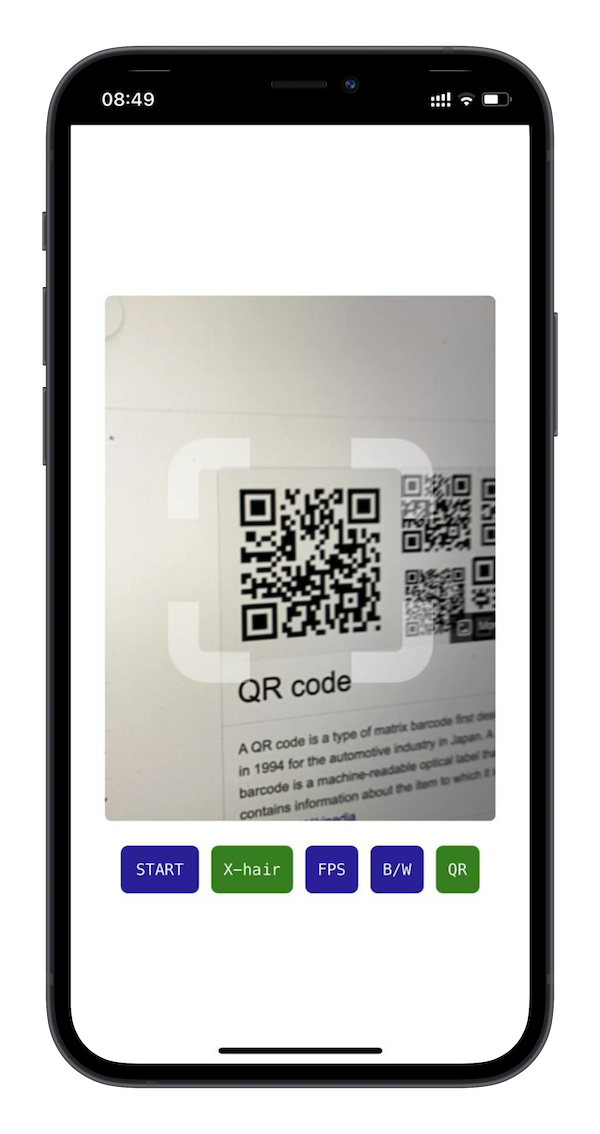
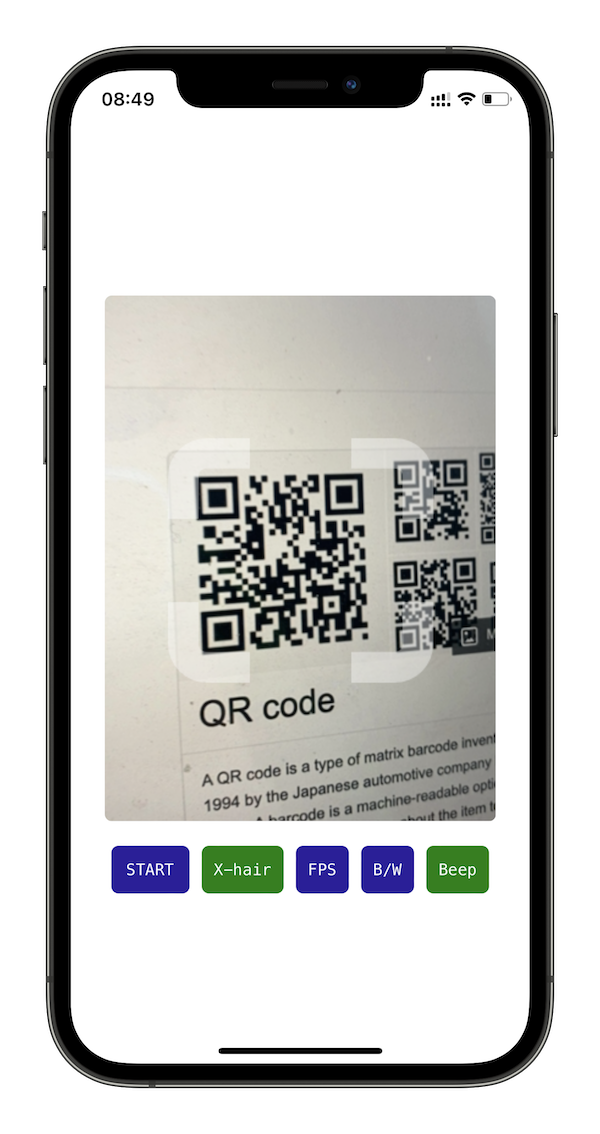
updated readme, new screenshots

diff --git a/README.md b/README.md
@@ -14,12 +14,13 @@ QR/bar code scanner for the Browser
 * Packaged as PWA (caching files with Service Worker, Add to Home Screen)
 * Mobile first (can be used on a Laptop as well)
 * Multiplatform (iOS, Android, Desktop)
-* QR recognition logic is performed off the browser's Main thread (i.e. Web Worker)
-* *koder* React component supports a [jsqr](https://www.npmjs.com/package/jsqr) based Web Worker (see [jsQrWorker.js](./public/jsQrWorker.js))  
+* QR/bar code recognition logic is performed off the browser's Main thread (i.e. Web Worker)
+* *koder* React component supports a [jsqr](https://www.npmjs.com/package/jsqr) based Web Worker (see [jsQrWorker.js](./public/jsQrWorker.js))
 * Barcode support (UPC-A, UPC-E, EAN-8, EAN-13, I25, CODE-128)
-* Support for UPN QR (Slovenia only)
+* :new: Turn on/off the beep sound
+* :new: Support for UPN QR (Slovenia only)
 * :new: EU Digital Covid Certificate validator (vaccination, test), works in ``offline`` mode!
-* :new: uses Emscripten v3.1.1
+* :new: Emscripten v3.1.1
 * Emscripten-zbar-sdk [Docker image](https://hub.docker.com/r/maslick/emscripten-zbar-sdk) based on `emscripten/emsdk`, [Dockerfile](./docker/Dockerfile)
 * ReactJS [component](./src/components/scan.js)
 * Vanilla JS [example](./docs)
@@ -29,64 +30,70 @@ QR/bar code scanner for the Browser
   <img src="./screenshots/app_2.png" width="400px" />
 </p>
 
-## ⚡ Installation
+## ⚡ Usage
 
-### 1. Builder image
+### 1. Install dependencies
 ```shell
-docker build -t maslick/emscripten-zbar-sdk -f docker/Dockerfile docker
+npm install --global yarn
+yarn install --frozen-lockfile
 ```
 
-### 2. Build WASM artifacts:
+### 2. Run React app (dev mode):
 ```shell
+npm run start
+open https://locahost:8080
+```
+
+### 3. Run React app (production):
+```shell
+npm run build                # -> builds React app into ./public
+npm run prod                 # -> serve static web app on port 8082
+open http://localhost:8082
+```
+
+## :spades: Development
+
+### Fetch or build the Builder image
+```shell
+docker pull maslick/emscripten-zbar-sdk
+docker build -t maslick/emscripten-zbar-sdk -f docker/Dockerfile docker
+
+```
+
+### Build WASM artifacts
+```shell
+# React app
 docker run \
   -e INPUT_FILE=zbar/qr.cpp \
   -e OUTPUT_FILE=zbar \
   -e OUTPUT_DIR=public/wasm \
   -v $(pwd):/app \
   maslick/emscripten-zbar-sdk make -B
-```
-
-Clean the build artifacts (if necessary):
-```shell
-OUTPUT_DIR=public/wasm OUTPUT_FILE=zbar make clean
-```
-
-### 3. Use the resulting WASM artifacts
-
-```shell
-# Fetch dependencies
-yarn install --frozen-lockfile
-
-# Development mode
-npm run start
-open https://locahost:8080
-
-# Production mode
-npm run build
-npm run build-and-serve
-open http://localhost:8082
-```
-
-
-## :gem: BONUS: vanilla js example
-```shell
-# Build WASM artifacts
+  
+# Vanilla JS
 docker run \
   -e INPUT_FILE=zbar/qr.cpp \
   -e OUTPUT_FILE=zbar \
   -e OUTPUT_DIR=docs/wasm \
   -v $(pwd):/app \
   maslick/emscripten-zbar-sdk make -B
-
-# Serve static HTML app
-yarn run vanilla-js-live
-open http://localhost:8081
 ```
 
-Clean the build artifacts (if necessary):
+### Clean the build artifacts (if necessary):
 ```shell
+# React app
+OUTPUT_DIR=public/wasm OUTPUT_FILE=zbar make clean
+
+# Vanilla JS
 OUTPUT_DIR=docs/wasm OUTPUT_FILE=zbar make clean
 ```
+
+## :gem: BONUS: vanilla js example
+```shell
+npm run vanilla-js
+open https://locahost:8081
+```
+
 
 ## 🔭 References
 * [WebAssembly at Ebay](https://tech.ebayinc.com/engineering/webassembly-at-ebay-a-real-world-use-case/)
